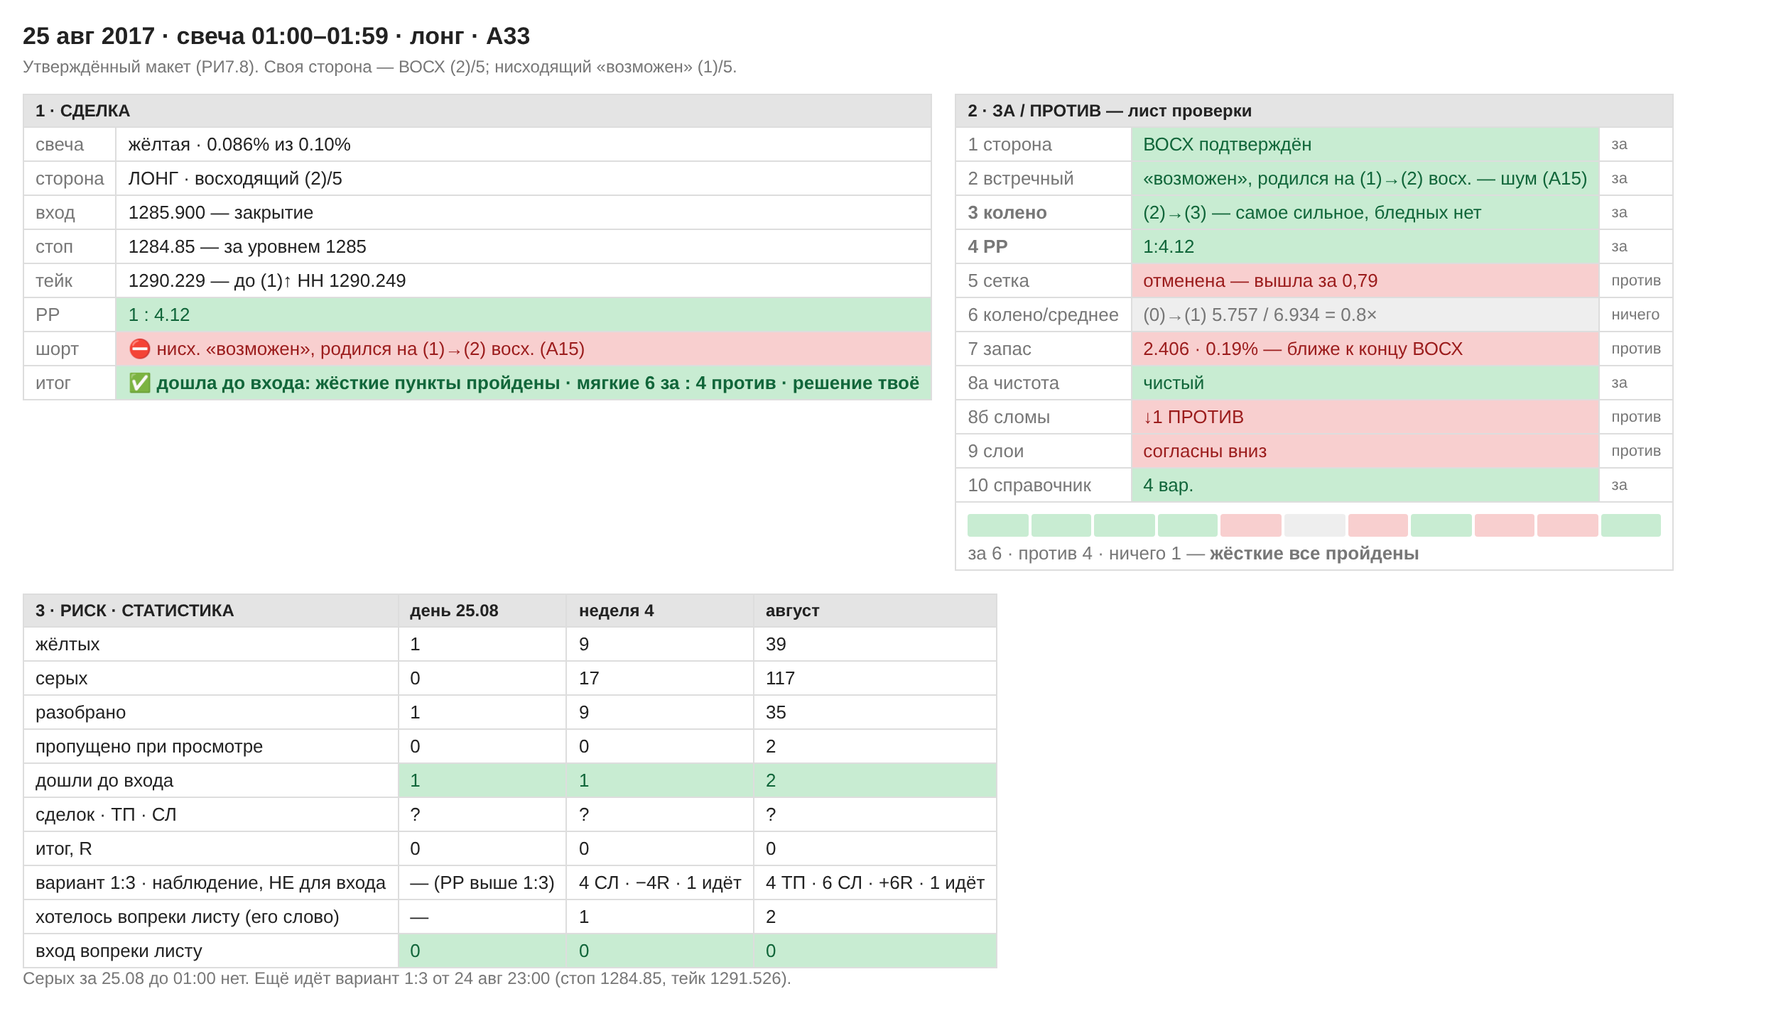
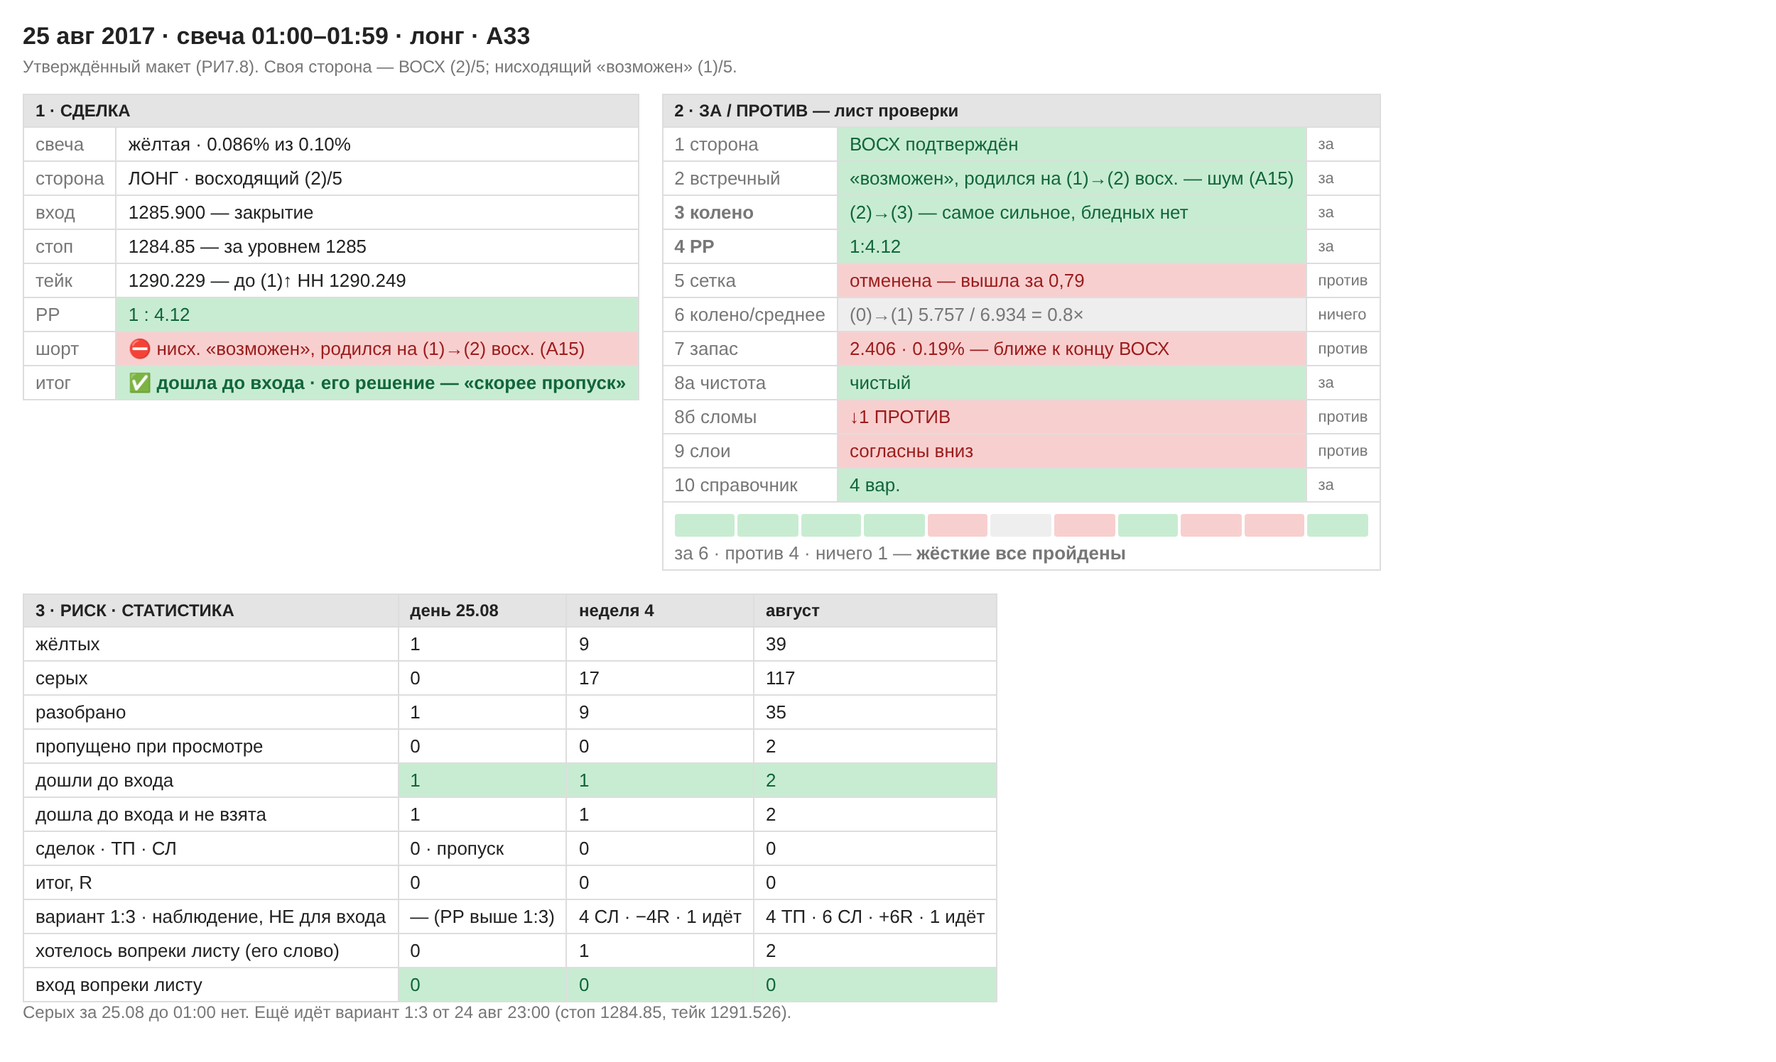
А33: его решение — «скорее пропуск», неуверенность; дошла до входа и не взята — 2 из 2
Claude-Session: https://claude.ai/code/session_01TnuyYeu48W8E686G1zottP

Changed region(s): [[0.0, 0.0311, 0.9672, 0.9634]]

diff --git a/research/out/maket/2017-08-25_0100.html b/research/out/maket/2017-08-25_0100.html
@@ -6,4 +6,4 @@ table{border-collapse:collapse;min-width:360px}td,th{border:1px solid var(--ln);
 th{background:var(--h);font-size:12px}.blk td:first-child{color:var(--mut);white-space:nowrap}
 .g{background:var(--g);color:var(--gt)}.r{background:var(--r);color:var(--rt)}.n{background:var(--n);color:var(--mut)}
 .hard{font-weight:bold}.tag{font-size:11px;color:var(--mut)}
-.bar{display:flex;gap:2px;margin:4px 0}.bar span{flex:1;height:16px;border-radius:2px}</style></head><body><h1>25 авг 2017 · свеча 01:00–01:59 · лонг · А33</h1><p class="sub">Утверждённый макет (РИ7.8). Своя сторона — ВОСХ (2)/5; нисходящий «возможен» (1)/5.</p><div class="wrap"><table class="blk"><tr><th colspan="2">1 · СДЕЛКА</th></tr><tr><td>свеча</td><td class="">жёлтая · 0.086% из 0.10%</td></tr><tr><td>сторона</td><td class="">ЛОНГ · восходящий (2)/5</td></tr><tr><td>вход</td><td class="">1285.900 — закрытие</td></tr><tr><td>стоп</td><td class="">1284.85 — за уровнем 1285</td></tr><tr><td>тейк</td><td class="">1290.229 — до (1)↑ HH 1290.249</td></tr><tr><td>РР</td><td class="g">1 : 4.12</td></tr><tr><td>шорт</td><td class="r">⛔ нисх. «возможен», родился на (1)→(2) восх. (А15)</td></tr><tr><td>итог</td><td class="g hard">✅ дошла до входа: жёсткие пункты пройдены · мягкие 6 за : 4 против · решение твоё</td></tr></table><table class="blk"><tr><th colspan="3">2 · ЗА / ПРОТИВ — лист проверки</th></tr><tr><td class="">1 сторона</td><td class="g">ВОСХ подтверждён</td><td class="tag">за</td></tr><tr><td class="">2 встречный</td><td class="g">«возможен», родился на (1)→(2) восх. — шум (А15)</td><td class="tag">за</td></tr><tr><td class="hard">3 колено</td><td class="g">(2)→(3) — самое сильное, бледных нет</td><td class="tag">за</td></tr><tr><td class="hard">4 РР</td><td class="g">1:4.12</td><td class="tag">за</td></tr><tr><td class="">5 сетка</td><td class="r">отменена — вышла за 0,79</td><td class="tag">против</td></tr><tr><td class="">6 колено/среднее</td><td class="n">(0)→(1) 5.757 / 6.934 = 0.8×</td><td class="tag">ничего</td></tr><tr><td class="">7 запас</td><td class="r">2.406 · 0.19% — ближе к концу ВОСХ</td><td class="tag">против</td></tr><tr><td class="">8а чистота</td><td class="g">чистый</td><td class="tag">за</td></tr><tr><td class="">8б сломы</td><td class="r">↓1 ПРОТИВ</td><td class="tag">против</td></tr><tr><td class="">9 слои</td><td class="r">согласны вниз</td><td class="tag">против</td></tr><tr><td class="">10 справочник</td><td class="g">4 вар.</td><td class="tag">за</td></tr><tr><td colspan="3"><div class="bar"><span class="g"></span><span class="g"></span><span class="g"></span><span class="g"></span><span class="r"></span><span class="n"></span><span class="r"></span><span class="g"></span><span class="r"></span><span class="r"></span><span class="g"></span></div>за 6 · против 4 · ничего 1 — <b>жёсткие все пройдены</b></td></tr></table><table><tr><th>3 · РИСК · СТАТИСТИКА</th><th>день 25.08</th><th>неделя 4</th><th>август</th></tr><tr><td>жёлтых</td><td class="">1</td><td class="">9</td><td class="">39</td></tr><tr><td>серых</td><td class="">0</td><td class="">17</td><td class="">117</td></tr><tr><td>разобрано</td><td class="">1</td><td class="">9</td><td class="">35</td></tr><tr><td>пропущено при просмотре</td><td class="">0</td><td class="">0</td><td class="">2</td></tr><tr><td>дошли до входа</td><td class="g">1</td><td class="g">1</td><td class="g">2</td></tr><tr><td>сделок · ТП · СЛ</td><td class="">?</td><td class="">?</td><td class="">?</td></tr><tr><td>итог, R</td><td class="">0</td><td class="">0</td><td class="">0</td></tr><tr><td>вариант 1:3 · наблюдение, НЕ для входа</td><td class="">— (РР выше 1:3)</td><td class="">4 СЛ · −4R · 1 идёт</td><td class="">4 ТП · 6 СЛ · +6R · 1 идёт</td></tr><tr><td>хотелось вопреки листу (его слово)</td><td class="">—</td><td class="">1</td><td class="">2</td></tr><tr><td>вход вопреки листу</td><td class="g">0</td><td class="g">0</td><td class="g">0</td></tr></table></div><p class="sub">Серых за 25.08 до 01:00 нет. Ещё идёт вариант 1:3 от 24 авг 23:00 (стоп 1284.85, тейк 1291.526).</p></body></html>
+.bar{display:flex;gap:2px;margin:4px 0}.bar span{flex:1;height:16px;border-radius:2px}</style></head><body><h1>25 авг 2017 · свеча 01:00–01:59 · лонг · А33</h1><p class="sub">Утверждённый макет (РИ7.8). Своя сторона — ВОСХ (2)/5; нисходящий «возможен» (1)/5.</p><div class="wrap"><table class="blk"><tr><th colspan="2">1 · СДЕЛКА</th></tr><tr><td>свеча</td><td class="">жёлтая · 0.086% из 0.10%</td></tr><tr><td>сторона</td><td class="">ЛОНГ · восходящий (2)/5</td></tr><tr><td>вход</td><td class="">1285.900 — закрытие</td></tr><tr><td>стоп</td><td class="">1284.85 — за уровнем 1285</td></tr><tr><td>тейк</td><td class="">1290.229 — до (1)↑ HH 1290.249</td></tr><tr><td>РР</td><td class="g">1 : 4.12</td></tr><tr><td>шорт</td><td class="r">⛔ нисх. «возможен», родился на (1)→(2) восх. (А15)</td></tr><tr><td>итог</td><td class="g hard">✅ дошла до входа · его решение — «скорее пропуск»</td></tr></table><table class="blk"><tr><th colspan="3">2 · ЗА / ПРОТИВ — лист проверки</th></tr><tr><td class="">1 сторона</td><td class="g">ВОСХ подтверждён</td><td class="tag">за</td></tr><tr><td class="">2 встречный</td><td class="g">«возможен», родился на (1)→(2) восх. — шум (А15)</td><td class="tag">за</td></tr><tr><td class="hard">3 колено</td><td class="g">(2)→(3) — самое сильное, бледных нет</td><td class="tag">за</td></tr><tr><td class="hard">4 РР</td><td class="g">1:4.12</td><td class="tag">за</td></tr><tr><td class="">5 сетка</td><td class="r">отменена — вышла за 0,79</td><td class="tag">против</td></tr><tr><td class="">6 колено/среднее</td><td class="n">(0)→(1) 5.757 / 6.934 = 0.8×</td><td class="tag">ничего</td></tr><tr><td class="">7 запас</td><td class="r">2.406 · 0.19% — ближе к концу ВОСХ</td><td class="tag">против</td></tr><tr><td class="">8а чистота</td><td class="g">чистый</td><td class="tag">за</td></tr><tr><td class="">8б сломы</td><td class="r">↓1 ПРОТИВ</td><td class="tag">против</td></tr><tr><td class="">9 слои</td><td class="r">согласны вниз</td><td class="tag">против</td></tr><tr><td class="">10 справочник</td><td class="g">4 вар.</td><td class="tag">за</td></tr><tr><td colspan="3"><div class="bar"><span class="g"></span><span class="g"></span><span class="g"></span><span class="g"></span><span class="r"></span><span class="n"></span><span class="r"></span><span class="g"></span><span class="r"></span><span class="r"></span><span class="g"></span></div>за 6 · против 4 · ничего 1 — <b>жёсткие все пройдены</b></td></tr></table><table><tr><th>3 · РИСК · СТАТИСТИКА</th><th>день 25.08</th><th>неделя 4</th><th>август</th></tr><tr><td>жёлтых</td><td class="">1</td><td class="">9</td><td class="">39</td></tr><tr><td>серых</td><td class="">0</td><td class="">17</td><td class="">117</td></tr><tr><td>разобрано</td><td class="">1</td><td class="">9</td><td class="">35</td></tr><tr><td>пропущено при просмотре</td><td class="">0</td><td class="">0</td><td class="">2</td></tr><tr><td>дошли до входа</td><td class="g">1</td><td class="g">1</td><td class="g">2</td></tr><tr><td>дошла до входа и не взята</td><td class="">1</td><td class="">1</td><td class="">2</td></tr><tr><td>сделок · ТП · СЛ</td><td class="">0 · пропуск</td><td class="">0</td><td class="">0</td></tr><tr><td>итог, R</td><td class="">0</td><td class="">0</td><td class="">0</td></tr><tr><td>вариант 1:3 · наблюдение, НЕ для входа</td><td class="">— (РР выше 1:3)</td><td class="">4 СЛ · −4R · 1 идёт</td><td class="">4 ТП · 6 СЛ · +6R · 1 идёт</td></tr><tr><td>хотелось вопреки листу (его слово)</td><td class="">0</td><td class="">1</td><td class="">2</td></tr><tr><td>вход вопреки листу</td><td class="g">0</td><td class="g">0</td><td class="g">0</td></tr></table></div><p class="sub">Серых за 25.08 до 01:00 нет. Ещё идёт вариант 1:3 от 24 авг 23:00 (стоп 1284.85, тейк 1291.526).</p></body></html>

diff --git a/indicator/КАК-ТОРГУЮ.md b/indicator/КАК-ТОРГУЮ.md
@@ -59,7 +59,7 @@
 | **А30** | 18.11.2026 | **24 августа 12:00** — скрин без слов | пропуск: шорт на `(4)→(5)`, РР 1:5.02, но бледная **(5) предв.** 1284.492 — ТС8.13 · лонга нет, восх. умер · зеркало А25 |
 | **А31** | 18.11.2026 | **24 августа 19:00** — скрин без слов | пропуск: лонг на `(2)→(3)`, РР 1:1.91 до (1) HH 1290.249, сетка — 0,5 пробита закрытием 17:00, до 0,618 не дошла · шорт — А15 · В36: лонг 1:3, тейк 1291.866 |
 | **А32** | 18.11.2026 | **24 августа 23:00** — скрин без слов | пропуск: лонг на `(2)→(3)`, РР 1:2.22 до (1) HH 1290.249 · сетка отменена · шорт — А15 · ⛔ найдено **З81** и моя ошибка в А31 · В36: лонг 1:3, тейк 1291.526 |
-| **А33** | 19.11.2026 | **25 августа 01:00** — скрин, «переходим на 25 августа» | ⭐ **вторая в августе «дошла до входа»**: лонг на `(2)→(3)`, РР 1:4.12 до (1) HH 1290.249, жёсткие пройдены · мягкие 6 за : 4 против · решение его |
+| **А33** | 19.11.2026 | **25 августа 01:00** — скрин, «переходим на 25 августа» | ⭐ **вторая в августе «дошла до входа»**: лонг на `(2)→(3)`, РР 1:4.12 до (1) HH 1290.249, жёсткие пройдены · мягкие 6 за : 4 против · **его решение — «скорее пропуск»**, неуверенность |
 
 ---
 
@@ -4089,3 +4089,29 @@ LH 1290.234 · рубится глубиной 1291.653 · запас 5.347, 0.4
 
 **Макет:** `research/out/maket/2017-08-25_0100.png`. ❓ Спрошено: входит ли
 он, и если нет — почему; хотелось ли вопреки.
+
+**Ответ, 19.11.2026, дословно:**
+
+> «по шорту полностью согласен
+> Лонг не уверен, и под эту неуверенность нахожу как мягкие подтверждения
+> так и начинаю придумывать из мягких - нет сетки Ф причем нет по размеру
+> колена и потому что цена ее убрала, 1 слом против
+> из придумывать внутрене не нравится как проходит тренд.
+> скорее пропуск»
+
+| | |
+|---|---|
+| шорт | согласен — пропуск по А15 |
+| **лонг** | **«скорее пропуск»** — дошла до входа и **не взята**, второй раз из двух (первый — А22, шорт) |
+| что он назвал сам | **неуверенность первой**, доводы под неё — потом: «под эту неуверенность нахожу… мягкие подтверждения». Мягкие, которые взял: нет сетки, 1 слом против. Сверх табло — «внутренне не нравится, как проходит тренд», и это он сам назвал «придумывать» |
+| ⚠ **одно место расходится с табло** | «нет сетки… по размеру колена» — табло пишет колено 5.757 при нужных 3.467, то есть размером она **прошла**. Сетки нет по одной причине — **цена вышла за 0,79**, вторую он назвал сам. Показано ему, не исправлено за него |
+| «хотелось вопреки листу» | **0** — наоборот: лист разрешал, войти не хотелось |
+
+**Для отчёта, часть Д:** «дошла до входа и не взята» — **2 из 2** в августе.
+Оба раза — при равных или близких мягких (5 : 5 и 6 : 4). Два случая — не
+вывод, но это ровно вопрос «правильно ли это или нет», который он задал в
+А22. Исход — когда он пройдёт дальше.
+
+❓ Спрошено (не обязательно): что именно «не нравится, как проходит тренд» —
+это то, что видно глазом на графике и чего нет в табло; оно же кандидат
+в таблицу «чего в табло не хватает».

diff --git a/indicator/ТАБЛО-НА-СВЕЧЕ.md b/indicator/ТАБЛО-НА-СВЕЧЕ.md
@@ -45,7 +45,7 @@
 | 24 авг 12:00 | А30 | скрин | умер / **НИСХ** | — / (4)·**(5) предв.** | ↓ чистый, ↓3 за, С20/С29 | согласны (вниз) | 0.42% | 4.136 / 7.097 | НИСХ `(2)→(3)`, −0.207 — за (3), вне сетки | **шорт 1:5.02** | пропуск: бледная (5), ТС8.13 | шорт — **стоп** следующей свечой, 13:00 (макс. 1287.405), ТС8.13 уберёг 1R |
 | 24 авг 19:00 | А31 | скрин | **ВОСХ** / возможен | (2) / (1) | ↑ чистый, ↓1 ПРОТИВ · ↓ чистый, ↓1 за | согласны (вниз) | 0.3% · ближе к концу НИСХ | 5.757 / 6.934 | ВОСХ `(0)→(1)`, табло 0.503 · ⛔ по Ф4.2 уже отменена тенью 17:00 (З81) | лонг 1:1.91 | пропуск: РР, сетка; шорт — А15 | лонг — **стоп** в 21:00 (и 1:3 тоже) |
 | 24 авг 23:00 | А32 | скрин | **ВОСХ** / возможен | (2) / (1) | ↑ чистый, ↓1 ПРОТИВ · ↓ чистый, ↓1 за | согласны (вниз) | 0.22% · ближе к концу ВОСХ | 5.757 / 6.934 | ВОСХ `(0)→(1)`, отменена — вышла за 0,79 | лонг 1:2.22 | пропуск: РР; шорт — А15 | — идёт |
-| 25 авг 01:00 | А33 | скрин | **ВОСХ** / возможен | (2) / (1) | ↑ чистый, ↓1 ПРОТИВ · ↓ чистый, ↓1 за | согласны (вниз) | 0.19% · ближе к концу ВОСХ | 5.757 / 6.934 | ВОСХ `(0)→(1)`, отменена — вышла за 0,79 | **лонг 1:4.12 ✅** | ⭐ **дошла до входа**, 6 : 4 · решение его — ❓ | — идёт |
+| 25 авг 01:00 | А33 | скрин | **ВОСХ** / возможен | (2) / (1) | ↑ чистый, ↓1 ПРОТИВ · ↓ чистый, ↓1 за | согласны (вниз) | 0.19% · ближе к концу ВОСХ | 5.757 / 6.934 | ВОСХ `(0)→(1)`, отменена — вышла за 0,79 | **лонг 1:4.12 ✅** | ⭐ **дошла до входа**, 6 : 4 · его решение — **«скорее пропуск»**: неуверенность, сетки нет, слом против, «не нравится, как проходит тренд» | — идёт |
 
 ⚠ **8 авг 03:00 — табло на бар позади.** На закрытии свечи было уже
 **(2)** и **ВОСХ**; на графике он видел (1) и «возможен» — З77, починено в
